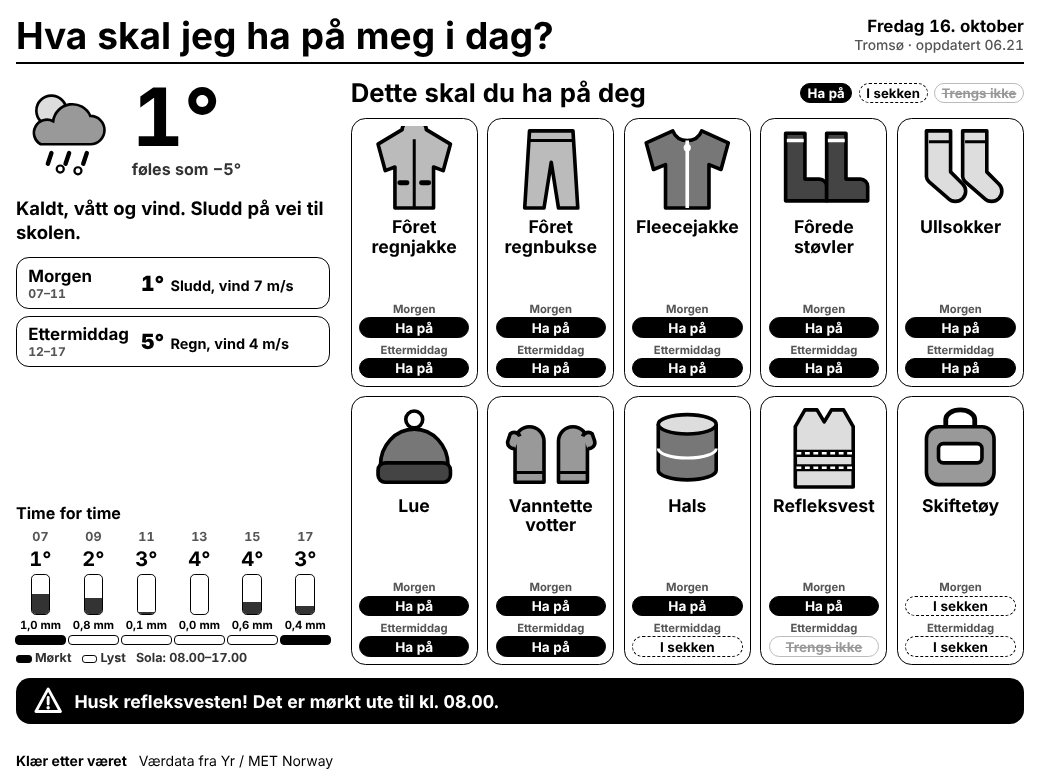
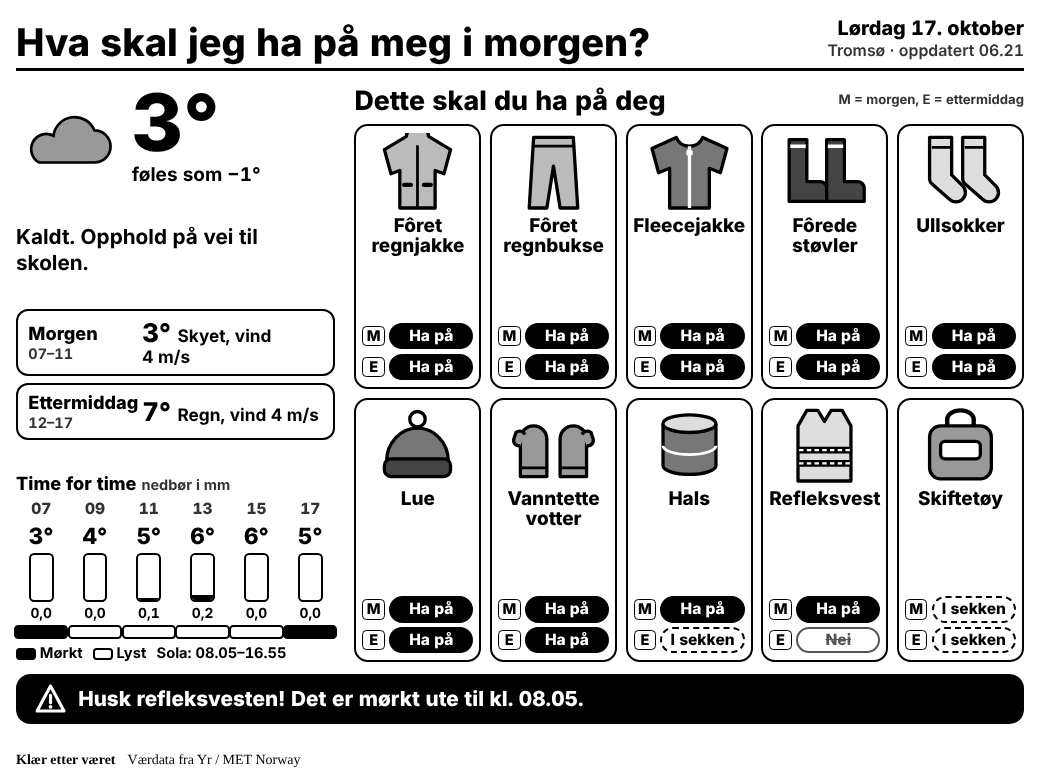
Tune the full view after testing on a real TRMNL X
- Set a sans-serif font explicitly; the device fell back to serif
- Spell out the Norwegian date by hand; the runtime printed it in English
- Larger secondary text, darker grays, and M/E markers so the
  status pills fit inside the cards

Claude-Session: https://claude.ai/code/session_01MfSNdDLEZkeMd6mijxF2wM

Changed region(s): [[0.0, 0.0308, 0.9846, 0.9231], [0.0, 0.9538, 0.3077, 0.9846]]

diff --git a/src/transform.js b/src/transform.js
@@ -10,7 +10,7 @@ const PERIODS = {
 };
 const STRIP_HOURS = [7, 9, 11, 13, 15, 17];
 const SWITCH_TO_TOMORROW_AT = 17; // after this local hour, show tomorrow
-const STATUS_LABEL = { on: 'Ha på', bag: 'I sekken', no: 'Trengs ikke' };
+const STATUS_LABEL = { on: 'Ha på', bag: 'I sekken', no: 'Nei' };
 const MAX_ITEMS = 10;
 
 // ---------- input helpers ----------
@@ -51,9 +51,14 @@ function clock(date, timeZone) {
   return `${String(p.hour).padStart(2, '0')}.${String(p.minute).padStart(2, '0')}`;
 }
 
+// Spelled out by hand: TRMNL's Node runtime may lack Norwegian locale data and fall back to English.
+const DAYS = ['Søndag', 'Mandag', 'Tirsdag', 'Onsdag', 'Torsdag', 'Fredag', 'Lørdag'];
+const MONTHS = ['januar', 'februar', 'mars', 'april', 'mai', 'juni', 'juli', 'august', 'september', 'oktober', 'november', 'desember'];
+
 function norwegianDate(date, timeZone) {
-  const s = new Intl.DateTimeFormat('nb-NO', { timeZone, weekday: 'long', day: 'numeric', month: 'long' }).format(date);
-  return s.charAt(0).toUpperCase() + s.slice(1);
+  const [y, m, d] = localParts(date, timeZone).date.split('-').map(Number);
+  const weekday = new Date(Date.UTC(y, m - 1, d)).getUTCDay();
+  return `${DAYS[weekday]} ${d}. ${MONTHS[m - 1]}`;
 }
 
 // ---------- sun ----------
@@ -138,8 +143,7 @@ function summarize(hours) {
 }
 
 const fmtTemp = t => `${Math.round(t) < 0 ? '−' : ''}${Math.abs(Math.round(t))}°`;
-const fmtMm = mm => `${mm.toFixed(1).replace('.', ',')} mm`;
-const fmtWind = w => `${Math.round(w)} m/s`;
+const fmtWind = w => `${Math.round(w)}\u00a0m/s`;
 
 const KIND_TEXT = {
   clear: 'Sol', partly: 'Lettskyet', cloudy: 'Skyet', fog: 'Tåke',
@@ -312,7 +316,7 @@ function build(input, now) {
     return {
       hour: String(h).padStart(2, '0'),
       temp: fmtTemp(at.temp),
-      precip: fmtMm(mm),
+      precip: mm.toFixed(1).replace('.', ','),
       bar: Math.min(100, Math.round(mm / 2 * 100)),
       dark: at.dark
     };

diff --git a/README.md b/README.md
@@ -13,7 +13,7 @@ scales down to the original TRMNL and to mashup slots.
   ("føles som").
 - Hour by hour temperature and precipitation, and whether it is dark or light outside.
 - An outfit grid where each garment says **Ha på** (wear it), **I sekken** (pack it) or
-  **Trengs ikke** (not needed) for the morning and the afternoon.
+  **Nei** (not needed), marked M for morning and E for afternoon for the morning and the afternoon.
 - A reminder at the bottom, such as the reflector vest when it is dark on the way to school.
 
 After 17:00 the screen switches to tomorrow's plan.
